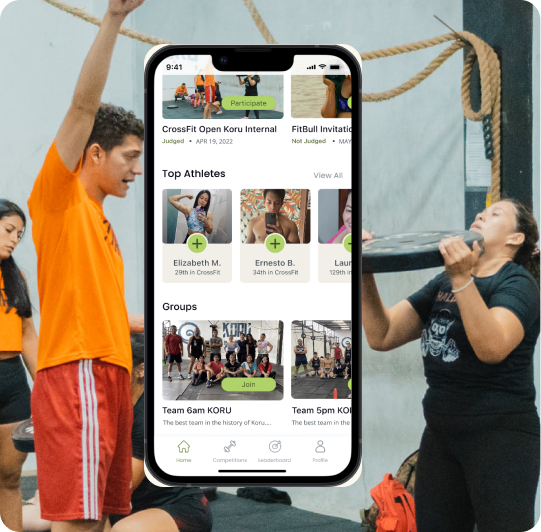
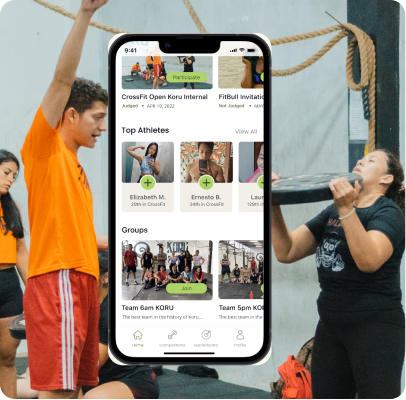
image optimization

diff --git a/src/components/projects/Dalig.jsx b/src/components/projects/Dalig.jsx
@@ -55,7 +55,7 @@ class Dalig extends React.Component{
                                  {/* Full width picture */}
                                  <div className="row py-5 full-width-picture">
                                     <div className="col-12">
-                                        <img className="portfolio-img" src={ process.env.PUBLIC_URL + '/images/portfolio/dalig/competition.png'} alt="Competition" />
+                                        <img className="portfolio-img" src={ process.env.PUBLIC_URL + '/images/portfolio/dalig/competition2.jpg'} alt="Competition" />
                                     </div>
                                 </div>
                                  {/* Triple Text */}
@@ -227,14 +227,14 @@ class Dalig extends React.Component{
                                  <div className="row py-5 centred-image ">
                                     <div className="col-8 mx-auto text-center">
                                         <h6 className="mb-5 display">Wireframes</h6>
-                                        <img className="portfolio-img" src={ process.env.PUBLIC_URL + '/images/portfolio/dalig/wireframes.png'} alt="Wireframes" />
+                                        <img className="portfolio-img" src={ process.env.PUBLIC_URL + '/images/portfolio/dalig/wireframes.jpg'} alt="Wireframes" />
                                     </div>
                                 </div>
                                 {/* Centred picture */}
                                 <div className="row py-5 centred-image ">
                                     <div className="col-8 mx-auto text-center">
                                         <h6 className="mb-5 display">Prototype Screens</h6>
-                                        <img className="portfolio-img" src={ process.env.PUBLIC_URL + '/images/portfolio/dalig/lowfi.png'} alt="Low Fidelity Design" />
+                                        <img className="portfolio-img" src={ process.env.PUBLIC_URL + '/images/portfolio/dalig/lowfi.jpg'} alt="Low Fidelity Design" />
                                     </div>
                                 </div>
 
@@ -246,7 +246,7 @@ class Dalig extends React.Component{
                                         <div className="row align-items-center">
                                             <div className="col-12 col-md-6 mb-5 mb-md-0">
                                                 <img className="portfolio-img" 
-                                                     src={ process.env.PUBLIC_URL + '/images/portfolio/dalig/moodboard.png'} 
+                                                     src={ process.env.PUBLIC_URL + '/images/portfolio/dalig/moodboard.jpg'} 
                                                      alt="Moodboard" />
                                             </div>
                                             <div className="col-12 col-md-6 ">
@@ -314,7 +314,7 @@ class Dalig extends React.Component{
                                             </div>
                                             <div className="col-12 col-md-6 px-2 px-md-5 mb-5 mb-md-0">
                                                 <img className="portfolio-img" 
-                                                     src={ process.env.PUBLIC_URL + '/images/portfolio/dalig/changes2.png'} 
+                                                     src={ process.env.PUBLIC_URL + '/images/portfolio/dalig/changes2.jpg'} 
                                                      alt="Changes 2" />
                                             </div>
                                         </div>

diff --git a/src/components/projects/Pentalogix.jsx b/src/components/projects/Pentalogix.jsx
@@ -39,7 +39,7 @@ class Pentalogix extends React.Component{
                                  {/* Centred picture */}
                                 <div className="row py-5 centred-image odd">
                                     <div className="col-md-8 col-sm-12 mx-auto text-center">
-                                        <img className="portfolio-img" src={ process.env.PUBLIC_URL + '/images/portfolio/pentalogix/pentalogix.png'} alt="Pentalogix Main site" />
+                                        <img className="portfolio-img" src={ process.env.PUBLIC_URL + '/images/portfolio/pentalogix/pentalogix.jpg'} alt="Pentalogix Main site" />
                                     </div>
                                 </div>
                                  {/* Centred Important Description */}
@@ -157,10 +157,10 @@ class Pentalogix extends React.Component{
                                         <h5 className="display mb-5">High Fidelity Screens</h5>
                                         <div className="row">
                                             <div className="col-12 col-md-6 mx-0 px-0">
-                                                <img className="portfolio-img" src={ process.env.PUBLIC_URL + '/images/portfolio/pentalogix/quote3.png'} alt="High Fielity 1"/>
+                                                <img className="portfolio-img" src={ process.env.PUBLIC_URL + '/images/portfolio/pentalogix/quote3.jpg'} alt="High Fielity 1"/>
                                             </div>
                                             <div className="col-12 col-md-6 mx-0 px-0">
-                                                <img className="portfolio-img" src={ process.env.PUBLIC_URL + '/images/portfolio/pentalogix/quote4.png'} alt="High Fielity 2"/>
+                                                <img className="portfolio-img" src={ process.env.PUBLIC_URL + '/images/portfolio/pentalogix/quote4.jpg'} alt="High Fielity 2"/>
                                             </div>
                                         </div>
                                     </div>
@@ -174,7 +174,7 @@ class Pentalogix extends React.Component{
                                         <div className="row align-items-center">
                                             <div className="col-12 col-md-6 px-md-2 mb-5 mb-md-0">
                                             <img className="portfolio-img" 
-                                                 src={ process.env.PUBLIC_URL + '/images/portfolio/pentalogix/analytics.png'} 
+                                                 src={ process.env.PUBLIC_URL + '/images/portfolio/pentalogix/analytics.jpg'} 
                                                  alt="Pentalogix Analytics"/>
                                             </div>
                                             <div className="col-12 col-md-6 ">
@@ -202,7 +202,7 @@ class Pentalogix extends React.Component{
                                             </div>
                                             <div className="col-12 col-md-6 px-2 px-md-5 mb-5 mb-md-0">
                                                 <img className="portfolio-img" 
-                                                     src={ process.env.PUBLIC_URL + '/images/portfolio/pentalogix/analytics3.png'} 
+                                                     src={ process.env.PUBLIC_URL + '/images/portfolio/pentalogix/analytics3.jpg'} 
                                                      alt="PentaLogix Analytics results"/>
                                             </div>
                                         </div>

diff --git a/src/components/misc/HomePortfolio.jsx b/src/components/misc/HomePortfolio.jsx
@@ -12,10 +12,10 @@ const HomePortfolio = () => {
                         <div className="col-md-5 offset-md-1 col-sm-12 text-left">
                             <h2 className="mb-2 px-3 px-md-0">The Projects</h2>
                             <p className="px-3 px-md-0">
-                                As a Designer, I use my passion for Visual Arts and Storytelling as a vehicle to create. 
-                                I also have a strong technical background, as a FrontEnd 
-                                Developer. I believe this combination helps me stay grounded when doing pretty things for the 
-                                Web or Mobiles. Here are some the projects I enjoyed working on the most...
+                                As a designer, I create based on my passion for visual arts and storytelling. 
+                                I also have a strong technical background, as a frontend 
+                                developer. I believe this combination helps me stay grounded when designing interfaces for humans.
+                                Here are some the projects I enjoyed working on the most...
                             </p>
                         </div>
                     </div>
@@ -25,7 +25,7 @@ const HomePortfolio = () => {
                             <div className="row align-items-center">
                                 <div className="col-12 col-md-6 px-2 pr-md-5 mb-5 mb-md-0">
                                     <Link to='/Portfolio/Dalig'>
-                                        <img className="portfolio-img" src={ process.env.PUBLIC_URL + '/images/home/dalig.png'} 
+                                        <img className="portfolio-img" src={ process.env.PUBLIC_URL + '/images/home/dalig.jpg'} 
                                                 alt="Pentalogix Analytics"/>
                                     </Link>
                                 </div>
@@ -36,8 +36,8 @@ const HomePortfolio = () => {
                                     <h6 className="mb-3 text-left tagline px-1 px-md-2">UI/UX DESIGN  · MOBILE<br/>BRAND DEVELOPMENT</h6>
                                     <p className="display lead-paragraph px-1 px-md-2 mb-5 mb-md-0">
                                         DALIG is a mobile app that allows athletes to create and participate in competitions, 
-                                        then they can upload their scores; they will have LeaderBoards and a 
-                                        global Rank, depending on how they do in the competitions. 
+                                        then they can upload their scores; they will have leaderboards and a 
+                                        global rank, depending on how they do in the competitions. 
                                     </p>
                                 </div>
                             </div>
@@ -62,7 +62,7 @@ const HomePortfolio = () => {
                             <div className="row align-items-center mt-5">
                                 <div className="col-12 col-md-6 px-2 pr-md-5 mb-5 mb-md-0">
                                     <Link to='/Portfolio/ThisBrand'>
-                                        <img className="portfolio-img" src={ process.env.PUBLIC_URL + '/images/home/felixrt.png'} 
+                                        <img className="portfolio-img" src={ process.env.PUBLIC_URL + '/images/home/felixrt.jpg'} 
                                             alt="Pentalogix Analytics"/>
                                     </Link>
                                 </div>

diff --git a/src/components/misc/HomeAbout.jsx b/src/components/misc/HomeAbout.jsx
@@ -12,23 +12,23 @@ const HomeAbout = () => {
                             <h2 className="mb-3 px-3 px-md-0">The Human</h2>
                             <div className="row">
                                 <div className="col-md-5 col-12 offset-md-1 pl-md-5 pt-md-5 mt-md-5 pt-2 mt-2">
-                                    <img className="about-img" src={ process.env.PUBLIC_URL + '/images/about/drag.png'} 
+                                    <img className="about-img" src={ process.env.PUBLIC_URL + '/images/about/drag.jpg'} 
                                             alt="About Drag"/>
                                 </div>
                                 <div className="col-md-3 col-12 pl-md-3 pt-md-3 mt-md-3 pt-2">
-                                    <img className="about-img" src={ process.env.PUBLIC_URL + '/images/about/friendship.png'} 
+                                    <img className="about-img" src={ process.env.PUBLIC_URL + '/images/about/friendship.jpg'} 
                                             alt="About Friendship"/>
 
                                 </div>
                                 <div className="col-md-3 col-12 pt-2 ">
-                                    <img className="about-img" src={ process.env.PUBLIC_URL + '/images/about/crossfit.png'} 
+                                    <img className="about-img" src={ process.env.PUBLIC_URL + '/images/about/crossfit.jpg'} 
                                             alt="About CrossFit"/>
 
                                 </div>
                             </div>
                             <div className="row align-items-end">
                                 <div className="col-md-5 pl-md-2 pt-md-2 col-12 mt-2">
-                                    <img className="about-img" src={ process.env.PUBLIC_URL + '/images/about/felix.png'} 
+                                    <img className="about-img" src={ process.env.PUBLIC_URL + '/images/about/felix2.jpg'} 
                                             alt="About Felix"/>
 
                                 </div>
@@ -37,9 +37,9 @@ const HomeAbout = () => {
                                         <div className="col-12 mx-auto col-md-12 mx-md-0 text-left mt-4">
                                             <h3 className="mb-2">Félix Rivas</h3>
                                             <p className="lead-paragraph px-md-0 py-0 mb-0">
-                                                For the past ten years I have created Web and Mobile apps and I have been involved in every part of the making process.
+                                                For the past ten years I have created web and mobile apps and I have been involved in every part of the making process.
                                                 I have always been obsessed with computers, graphics and creating metaphoric presentations using technology.
-                                                Now I have a Bachelor degree in Computer Science with a Multimedia specialization, and I've also studied Graphic Design for creating my Drag persona. Oh, yes, I’m also a Drag Queen.
+                                                Now I have a bachelor degree in Computer Science with a Multimedia specialization, and I've also studied Graphic Design for creating my drag persona. Oh, yes, I’m also a Drag Queen.
                                                 Now It would be my pleasure to use my creativity to help anyone to create their dream product.
                                             </p>
                                         </div>

diff --git a/src/components/misc/PortfolioShuffle.js b/src/components/misc/PortfolioShuffle.js
@@ -18,7 +18,7 @@ class PortfolioShuffle extends React.Component{
                                 <div className="row align-items-center">
                                     <div className="col-12 col-md-6 px-2 pr-md-5 mb-5 mb-md-0">
                                         <Link to='/Portfolio/Dalig'>
-                                            <img className="portfolio-img" src={ process.env.PUBLIC_URL + '/images/home/dalig.png'} 
+                                            <img className="portfolio-img" src={ process.env.PUBLIC_URL + '/images/home/dalig.jpg'} 
                                                     alt="Pentalogix Analytics"/>
                                         </Link>
                                     </div>
@@ -56,7 +56,7 @@ class PortfolioShuffle extends React.Component{
                                 <div className="row align-items-center mt-5">
                                     <div className="col-12 col-md-6 px-2 pr-md-5 mb-5 mb-md-0">
                                         <Link to='/Portfolio/ThisBrand'>
-                                            <img className="portfolio-img" src={ process.env.PUBLIC_URL + '/images/home/felixrt.png'} 
+                                            <img className="portfolio-img" src={ process.env.PUBLIC_URL + '/images/home/felixrt.jpg'} 
                                                 alt="Pentalogix Analytics"/>
                                         </Link>
                                     </div>

diff --git a/src/components/pages/About.js b/src/components/pages/About.js
@@ -37,7 +37,7 @@ const About = () => {
                             </div>
                             <div className="col-md-4 text-center drag-lg-top">
                                 <div className="shadow-down mb-4">
-                                <img src={ process.env.PUBLIC_URL + "/images/about/felixnj3.jpg"}
+                                <img src={ process.env.PUBLIC_URL + "/images/about/felixnj4.jpg"}
                                      alt="author" 
                                      className="img-fluid w-100 rounded-lg border-thick border-white" />
                                 </div>

diff --git a/src/components/misc/Skills.jsx b/src/components/misc/Skills.jsx
@@ -92,7 +92,7 @@ class Skills extends React.Component {
                                             <li>Productivity</li>
                                             <li>Organized</li>
                                             <li>Creativity</li>
-                                            <li>Work Ethic.</li>
+                                            <li>Work Ethic</li>
                                             <li>Bilingual(EN,ES)</li>
                                             <li>Agile </li>
                                         </ul>

diff --git a/src/styles/user.scss b/src/styles/user.scss
@@ -29,7 +29,7 @@
             padding-top: 2rem!important;
         }
         .mt-md-5{
-            margin-top: 10rem !important;
+            margin-top: 5rem !important;
         }
     }
 }
@@ -65,8 +65,7 @@ a, a:hover{
     }
 }
 .portfolio-img, .about-img{
-    max-width: 100%;
-    max-height: 100%;
+    width: 100%;
 }
 .portfolio{
     &.dalig,&.pentalogix{
